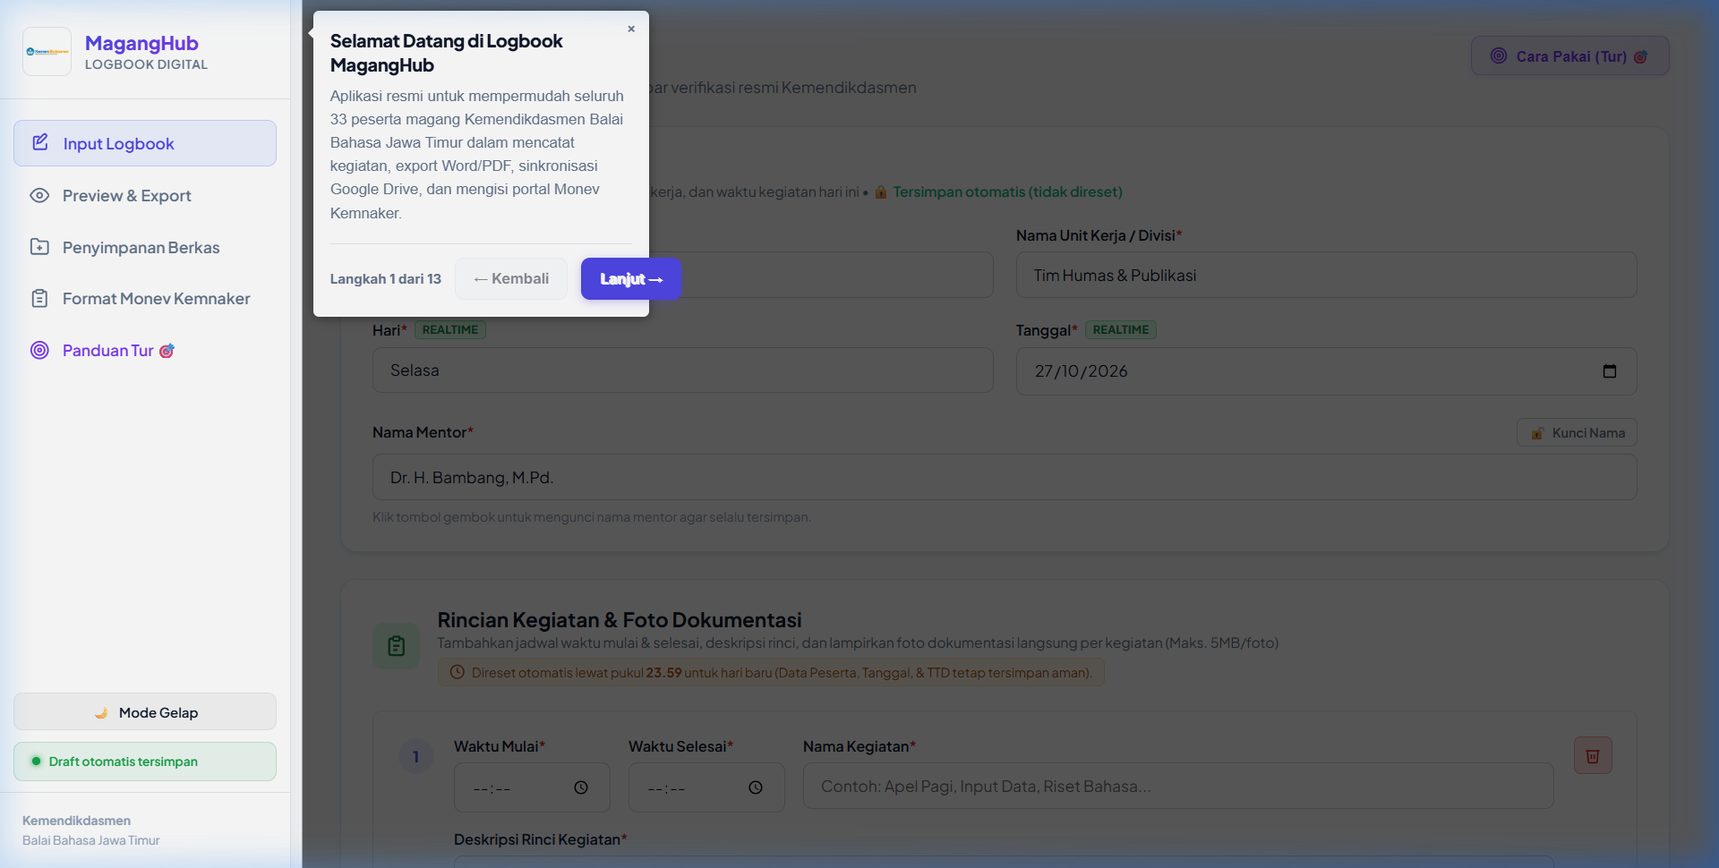
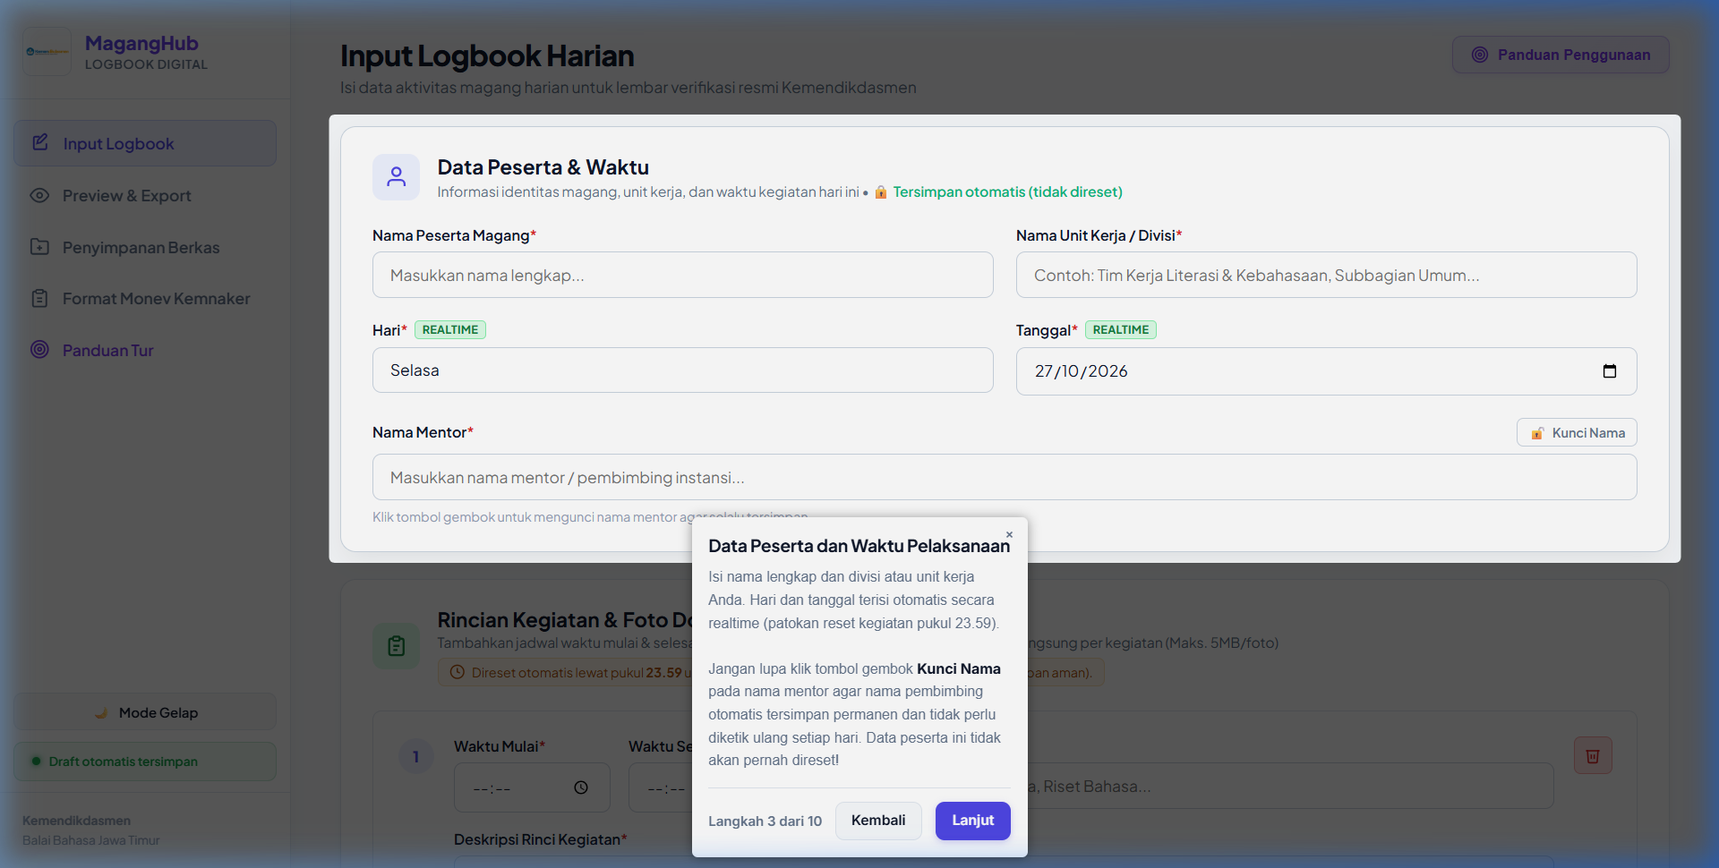
feat(tour): perbarui flow 10 langkah tur interaktif Driver.js dengan transisi tab otomatis dan dokumentasi lengkap

diff --git a/app.js b/app.js
@@ -3278,15 +3278,30 @@ function initAppTour() {
     prevBtnText: 'Kembali',
     progressText: 'Langkah {{current}} dari {{total}}',
     onDestroyStarted: () => {
+      closeMonevModal();
+      switchTab('form');
       localStorage.setItem('maganghub_tour_completed', 'true');
       if (appTourDriver) appTourDriver.destroy();
+    },
+    onHighlightStarted: (element, step, { config, state }) => {
+      const activeIdx = state?.activeIndex ?? (appTourDriver ? appTourDriver.getActiveIndex() : 0);
+      if (activeIdx === 6) {
+        closeMonevModal();
+        switchTab('preview');
+      } else if (activeIdx === 7) {
+        closeMonevModal();
+        switchTab('storage');
+      } else {
+        closeMonevModal();
+        switchTab('form');
+      }
     },
     steps: [
       {
         element: '#sidebar',
         popover: {
           title: 'Selamat Datang di Logbook MagangHub',
-          description: 'Aplikasi resmi untuk mempermudah seluruh 33 peserta magang Kemendikdasmen Balai Bahasa Jawa Timur dalam mencatat kegiatan, export Word/PDF, sinkronisasi Google Drive, dan mengisi portal Monev Kemnaker.',
+          description: 'Aplikasi resmi untuk 33 peserta magang Kemendikdasmen Balai Bahasa Jawa Timur dalam mencatat kegiatan harian, export Word/PDF, sinkronisasi Google Drive koordinator, dan menyusun laporan portal Monev Kemnaker.',
           side: 'right',
           align: 'start'
         }
@@ -3295,52 +3310,25 @@ function initAppTour() {
         element: '#nav-form',
         popover: {
           title: 'Tab 1: Input Logbook Harian',
-          description: 'Halaman utama untuk mengisi aktivitas kerja harian. Semua data yang diketik tersimpan otomatis ke browser (Auto-save).',
+          description: 'Halaman utama untuk mengisi agenda kerja harian Anda. Seluruh isian otomatis disimpan ke memori browser (Auto-save) sehingga data Anda tidak akan hilang.',
           side: 'right',
           align: 'center'
         }
       },
       {
-        element: '#nama',
+        element: '#card-peserta-waktu',
         popover: {
-          title: 'Data Peserta dan Unit Kerja',
-          description: 'Ketik nama lengkap dan divisi atau unit kerja Anda. Data peserta ini tersimpan permanen dan tidak akan direset setiap hari.',
+          title: 'Data Peserta dan Waktu Pelaksanaan',
+          description: 'Isi nama lengkap dan divisi atau unit kerja Anda. Hari dan tanggal terisi otomatis secara realtime (patokan reset kegiatan pukul 23.59).<br/><br/>Jangan lupa klik tombol gembok <strong>Kunci Nama</strong> pada nama mentor agar nama pembimbing otomatis tersimpan permanen dan tidak perlu diketik ulang setiap hari. Data peserta ini tidak akan pernah direset!',
           side: 'bottom',
-          align: 'start'
-        }
-      },
-      {
-        element: '#btn-lock-mentor',
-        popover: {
-          title: 'Fitur Kunci Nama Mentor',
-          description: 'Ketik nama mentor pembimbing, lalu klik tombol gembok ini. Setelah terkunci, nama mentor Anda otomatis tersimpan setiap hari tanpa perlu mengetik ulang.',
-          side: 'left',
           align: 'center'
-        }
-      },
-      {
-        element: '#tanggal',
-        popover: {
-          title: 'Hari dan Tanggal Otomatis',
-          description: 'Sistem secara realtime mengisi hari dan tanggal hari ini. Tanggal ini juga menjadi patokan reset kegiatan harian otomatis setiap pergantian hari lewat pukul 23.59.',
-          side: 'bottom',
-          align: 'start'
         }
       },
       {
         element: '#kegiatan-list',
         popover: {
           title: 'Rincian Kegiatan dan Foto Dokumentasi',
-          description: 'Isi jam mulai dan selesai, judul kegiatan, deskripsi rincian tugas, serta upload foto dokumentasi per kegiatan (maksimal 5MB). Bagian ini yang otomatis dikosongkan setiap lewat pukul 23.59 untuk hari baru.',
-          side: 'top',
-          align: 'center'
-        }
-      },
-      {
-        element: '#btn-add',
-        popover: {
-          title: 'Tambah Kegiatan Baru',
-          description: 'Klik tombol ini jika memiliki lebih dari satu kegiatan dalam sehari untuk menambah baris kegiatan baru sebanyak yang dibutuhkan.',
+          description: 'Isi jam mulai dan selesai (format WIB), nama kegiatan, uraian tugas, serta lampirkan foto dokumentasi per kegiatan (maksimal 5MB). Jika ada lebih dari satu agenda, klik tombol <em>+ Tambah Kegiatan Baru</em> di bawah.<br/><br/><strong>Catatan Penting:</strong> Hanya rincian kegiatan inilah yang otomatis dikosongkan setiap lewat pukul 23.59 malam agar siap untuk hari baru.',
           side: 'top',
           align: 'center'
         }
@@ -3349,7 +3337,7 @@ function initAppTour() {
         element: '#catatan',
         popover: {
           title: 'Catatan atau Kendala Tambahan',
-          description: 'Tuliskan catatan khusus atau kendala kerja jika ada. Jika tidak ada kendala, dapat dibiarkan kosong karena sistem otomatis menyiapkan evaluasi positif untuk laporan Monev.',
+          description: 'Tuliskan catatan khusus atau kendala kerja jika ada. <strong>Jika selama magang hari ini tidak ada kendala, cukup kosongkan saja kolom ini</strong>. Sistem AI nantinya otomatis membuat evaluasi positif untuk laporan Monev Kemnaker bahwa seluruh agenda kegiatan berjalan lancar.',
           side: 'top',
           align: 'start'
         }
@@ -3358,45 +3346,73 @@ function initAppTour() {
         element: '.signature-container',
         popover: {
           title: 'Tanda Tangan Digital',
-          description: 'Goreskan tanda tangan langsung di canvas atau gunakan tombol upload foto tanda tangan. Tanda tangan peserta dan mentor tetap tersimpan aman saat pergantian hari.',
+          description: 'Goreskan tanda tangan langsung pada canvas atau gunakan tombol <em>Upload Foto TTD</em>. Tanda tangan peserta dan mentor tetap tersimpan aman dan tidak akan hilang saat pergantian hari.',
           side: 'top',
-          align: 'center'
+          align: 'center',
+          onNextClick: () => {
+            switchTab('preview');
+            setTimeout(() => { if (appTourDriver) appTourDriver.moveNext(); }, 60);
+          }
         }
       },
       {
-        element: '#nav-preview',
+        element: '.export-toolbar',
         popover: {
           title: 'Tab 2: Preview dan Export Dokumen',
-          description: 'Lihat lembar logbook resmi dengan Kop Surat Kemendikdasmen. Anda dapat mengunduh dokumen dalam format Word (.docx) atau PDF (.pdf).',
-          side: 'right',
-          align: 'center'
+          description: 'Pada menu ini, Anda dapat memeriksa pratinjau lembar logbook resmi berkop surat Balai Bahasa Jawa Timur.<br/><br/>Tersedia tombol <strong>Export ke PDF</strong> untuk bukti laporan/cetak, serta tombol <strong>Export ke Word (.docx)</strong> jika dokumen ingin disunting lebih lanjut di komputer Anda.',
+          side: 'bottom',
+          align: 'center',
+          onPrevClick: () => {
+            switchTab('form');
+            setTimeout(() => { if (appTourDriver) appTourDriver.movePrevious(); }, 60);
+          },
+          onNextClick: () => {
+            switchTab('storage');
+            setTimeout(() => { if (appTourDriver) appTourDriver.moveNext(); }, 60);
+          }
         }
       },
       {
-        element: '#nav-storage',
+        element: '.storage-action-bar',
         popover: {
-          title: 'Tab 3: Penyimpanan Berkas dan Folder',
-          description: 'Akses folder 33 peserta magang di Google Drive koordinator. Klik tombol bintang pada folder Anda agar selalu berada di urutan paling atas.',
-          side: 'right',
-          align: 'center'
+          title: 'Tab 3: Penyimpanan Berkas dan Google Drive',
+          description: 'Pusat penyimpanan berkas seluruh 33 peserta magang di Google Drive koordinator (Marcello):<br/><br/>1. <strong>Teman-teman baru yang belum punya folder:</strong> Klik tombol <em>Buat Folder Baru</em> dan masukkan nama lengkap Anda (folder langsung dibuatkan di Google Drive koordinator).<br/>2. <strong>Jika sudah ada folder:</strong> Cari folder nama Anda sendiri, lalu klik <em>ikon bintang (⭐)</em> agar selalu terpin di paling atas.<br/>3. <strong>Menyimpan Logbook:</strong> Klik folder nama Anda untuk membukanya (tenang, data logbook dari form tidak akan hilang), lalu klik tombol <strong>Simpan & Dapatkan Link</strong>. File logbook otomatis ter-generate dan tersimpan di Google Drive bersama milik Marcello.<br/>4. <strong>Revisi jika ada kekeliruan:</strong> Berkas di Drive tidak bisa diedit langsung. Jika salah isi, <strong>hapus berkas lama terlebih dahulu</strong> di penyimpanan, kembali ke menu <em>Input Logbook</em> untuk memperbaiki datanya, lalu masuk ke folder ini dan klik <em>Simpan & Dapatkan Link</em> lagi. Salin tautan barunya untuk dikirim ke portal Kemnaker!',
+          side: 'bottom',
+          align: 'center',
+          onPrevClick: () => {
+            switchTab('preview');
+            setTimeout(() => { if (appTourDriver) appTourDriver.movePrevious(); }, 60);
+          },
+          onNextClick: () => {
+            switchTab('form');
+            setTimeout(() => { if (appTourDriver) appTourDriver.moveNext(); }, 60);
+          }
         }
       },
       {
         element: '#nav-monev',
         popover: {
-          title: 'Format Laporan Monev Kemnaker',
-          description: 'Fitur praktis untuk menyusun 3 klip siap salin ke portal Monev Kemnaker: Uraian Kronologis beserta link Drive, Refleksi Pembelajaran, dan Evaluasi Kendala harian.',
+          title: 'Format Laporan Monev Kemnaker (3 Klip Siap Salin)',
+          description: 'Fitur praktis untuk mengisi portal <strong>monev.maganghub.kemnaker.go.id</strong> tanpa perlu mengetik ulang dari awal:<br/><br/>1. <strong>Uraian Aktifitas:</strong> Mengambil langsung dari agenda rincian kegiatan dan jam yang diisi di formulir sebelumnya, serta otomatis menyertakan link Google Drive resmi Anda jika sudah disimpan di penyimpanan.<br/>2. <strong>Pembelajaran yang Didapat:</strong> Dibuat dan dirangkum secara cerdas dan otomatis oleh <strong>AI Gemini</strong> menjadi poin-poin kompetensi profesional.<br/>3. <strong>Kendala yang Dialami:</strong> Mengambil dari catatan formulir. Jika tadi dikosongkan, AI otomatis menyusun evaluasi positif bahwa seluruh agenda berjalan lancar.<br/><br/>Tinggal klik <em>Salin</em> per klip atau <em>Salin Semua Format (3-in-1)</em>, lalu tempelkan langsung ke portal Kemnaker!',
           side: 'right',
-          align: 'center'
+          align: 'center',
+          onPrevClick: () => {
+            switchTab('storage');
+            setTimeout(() => { if (appTourDriver) appTourDriver.movePrevious(); }, 60);
+          }
         }
       },
       {
         element: '#theme-toggle-btn',
         popover: {
-          title: 'Mode Terang dan Gelap',
-          description: 'Klik tombol ini untuk beralih antara Mode Terang dan Mode Gelap sesuai kenyamanan visual Anda.',
+          title: 'Mode Tampilan dan Selesai',
+          description: 'Gunakan tombol ini untuk beralih antara Mode Terang dan Mode Gelap agar nyaman di mata saat bekerja lembur atau malam hari. Panduan tur selesai, selamat mengisi logbook harian Anda!',
           side: 'top',
-          align: 'start'
+          align: 'start',
+          onPrevClick: () => {
+            switchTab('form');
+            setTimeout(() => { if (appTourDriver) appTourDriver.movePrevious(); }, 60);
+          }
         }
       }
     ]

diff --git a/style.css b/style.css
@@ -3226,18 +3226,19 @@ a {
   background-color: var(--bg-card) !important;
   color: var(--text) !important;
   border-radius: 14px !important;
-  box-shadow: 0 20px 40px -10px rgba(0, 0, 0, 0.25), 0 0 0 1px var(--border) !important;
+  box-shadow: 0 20px 45px -10px rgba(0, 0, 0, 0.3), 0 0 0 1px var(--border) !important;
   padding: 18px 20px !important;
-  width: 380px !important;
+  width: 410px !important;
   max-width: calc(100vw - 32px) !important;
   min-width: 320px !important;
+  max-height: 88vh !important;
   box-sizing: border-box !important;
   font-family: 'Inter', -apple-system, BlinkMacSystemFont, sans-serif !important;
 }
 
 .driver-popover-title {
   font-family: 'Plus Jakarta Sans', 'Inter', sans-serif !important;
-  font-size: 15px !important;
+  font-size: 15.5px !important;
   font-weight: 700 !important;
   color: var(--text) !important;
   margin-bottom: 8px !important;
@@ -3246,14 +3247,21 @@ a {
 }
 
 .driver-popover-description {
-  font-size: 13px !important;
-  line-height: 1.55 !important;
+  font-size: 12.8px !important;
+  line-height: 1.6 !important;
   color: var(--text-muted) !important;
   margin-bottom: 14px !important;
 }
 
 .driver-popover-description strong {
   color: var(--text) !important;
+  font-weight: 700 !important;
+}
+
+.driver-popover-description em {
+  color: var(--primary) !important;
+  font-style: normal !important;
+  font-weight: 600 !important;
 }
 
 .driver-popover-footer {

diff --git a/index.html b/index.html
@@ -107,7 +107,7 @@
       </div>
 
       <!-- Data Peserta & Waktu -->
-      <div class="card">
+      <div class="card" id="card-peserta-waktu">
         <div class="card-header">
           <div class="card-icon"><svg viewBox="0 0 24 24" fill="none" stroke="currentColor" stroke-width="2"><path d="M20 21v-2a4 4 0 00-4-4H8a4 4 0 00-4 4v2"/><circle cx="12" cy="7" r="4"/></svg></div>
           <div>

diff --git a/PANDUAN_PENGGUNA.md b/PANDUAN_PENGGUNA.md
@@ -8,6 +8,8 @@
 ## 📑 DAFTAR ISI
 1. [Sekilas Tentang Aplikasi](#1-sekilas-tentang-aplikasi)
 2. [Fitur Panduan Interaktif (Tur Driver.js)](#2-fitur-panduan-interaktif-tur-driverjs)
+   - [A. Cara Mengaktifkan Tur](#a-cara-mengaktifkan-tur)
+   - [B. Rincian Alur 10 Langkah Tur Panduan](#b-rincian-alur-10-langkah-tur-panduan)
 3. [Langkah 1: Mengisi Formulir Logbook Harian (Tab 1)](#3-langkah-1-mengisi-formulir-logbook-harian-tab-1)
    - [A. Mengisi Data Peserta & Waktu](#a-mengisi-data-peserta--waktu)
    - [B. Fitur Kunci Nama Mentor (🔒)](#b-fitur-kunci-nama-mentor-)
@@ -19,10 +21,11 @@
    - [A. Memilih / Membuat Folder Nama Anda](#a-memilih--membuat-folder-nama-anda)
    - [B. Fitur Bintang (⭐) Agar Folder Selalu Terpin di Paling Atas](#b-fitur-bintang--agar-folder-selalu-terpin-di-paling-atas)
    - [C. Menyimpan Logbook & Mendapatkan Tautan Google Drive](#c-menyimpan-logbook--mendapatkan-tautan-google-drive)
+   - [D. Prosedur Revisi Dokumen jika Terjadi Kekeliruan](#d-prosedur-revisi-dokumen-jika-terjadi-kekeliruan)
 6. [Langkah 4: Format Laporan Monev Kemnaker (3 Klip Siap Salin)](#6-langkah-4-format-laporan-monev-kemnaker-3-klip-siap-salin)
    - [A. Clip 1: Uraian Aktifitas Kronologis + Link GDrive](#a-clip-1-uraian-aktifitas-kronologis--link-gdrive)
-   - [B. Clip 2: Pembelajaran yang Didapat (Refleksi & Kompetensi)](#b-clip-2-pembelajaran-yang-didapat-refleksi--kompetensi)
-   - [C. Clip 3: Kendala yang Dialami (Evaluasi Positif Otomatis)](#c-clip-3-kendala-yang-dialami-evaluasi-positif-otomatis)
+   - [B. Clip 2: Pembelajaran yang Didapat (Refleksi & Kompetensi AI Gemini)](#b-clip-2-pembelajaran-yang-didapat-refleksi--kompetensi-ai-gemini)
+   - [C. Clip 3: Kendala yang Dialami (Evaluasi Positif Otomatis jika Kosong)](#c-clip-3-kendala-yang-dialami-evaluasi-positif-otomatis-jika-kosong)
    - [D. Cara Menempel ke Website Monev Kemnaker](#d-cara-menempel-ke-website-monev-kemnaker)
 7. [Tanya Jawab & Tips Penting (FAQ)](#7-tanya-jawab--tips-penting-faq)
 
@@ -42,11 +45,25 @@ Jika Anda baru pertama kali membuka website ini atau lupa letak menu tertentu, g
 
 ![Panduan Interaktif Tur](assets/screenshots/2_panduan_tur.png)
 
-### Cara Mengaktifkan Tur:
+### A. Cara Mengaktifkan Tur:
 1. Klik tombol **"Panduan Penggunaan"** di pojok kanan atas formulir input, ATAU
 2. Klik menu **"Panduan Tur"** pada panel navigasi (sidebar kiri).
-3. Layar akan memandu Anda langkah demi langkah dengan menyorot elemen penting formulir secara interaktif.
-4. Klik tombol **Lanjut** untuk berpindah ke langkah berikutnya, atau klik **Selesai** untuk keluar dari tur.
+3. Tur otomatis berjalan dan memandu Anda langkah demi langkah dengan menyorot elemen penting formulir dan berpindah tab secara otomatis.
+4. Klik tombol **Lanjut** untuk berpindah ke langkah berikutnya, **Kembali** untuk mundur satu langkah, atau **Selesai** untuk menutup panduan.
+
+### B. Rincian Alur 10 Langkah Tur Panduan:
+| No. Langkah | Target Sorotan | Penjelasan & Tindakan |
+| :---: | :--- | :--- |
+| **1** | **Panel Sidebar Kiri** (`#sidebar`) | Pengenalan singkat aplikasi resmi Logbook MagangHub untuk 33 peserta magang Balai Bahasa Jawa Timur. |
+| **2** | **Menu Tab 1: Input Logbook** (`#nav-form`) | Halaman utama pengisian agenda. Seluruh isian otomatis disimpan ke memori browser (*Auto-save*). |
+| **3** | **Data Peserta & Waktu Pelaksanaan** (`#card-peserta-waktu`) | Pengisian Nama Peserta, Unit Divisi, Hari & Tanggal (realtime). Penggunaan fitur kunci gembok nama mentor agar tersimpan permanen. Data di card ini tidak pernah direset. |
+| **4** | **Rincian Kegiatan & Dokumentasi** (`#kegiatan-list`) | Pengisian jam mulai-selesai (WIB), deskripsi kegiatan, tombol tambah kegiatan baru, serta upload foto dokumentasi (maks 5MB). Bagian ini yang otomatis dikosongkan lewat pukul 23.59 malam. |
+| **5** | **Catatan atau Kendala Tambahan** (`#catatan`) | Catatan evaluasi kerja. **Jika tidak ada kendala, cukup dikosongkan saja**; AI Gemini akan otomatis menyusun narasi evaluasi positif untuk portal Monev Kemnaker. |
+| **6** | **Tanda Tangan Digital** (`.signature-container`) | Coretan tanda tangan langsung pada canvas atau upload foto TTD. Tanda tangan peserta dan mentor tetap tersimpan permanen dan tidak akan hilang. |
+| **7** | **Tab 2: Pratinjau & Export Dokumen** (`.export-toolbar`) | Layar otomatis berpindah ke Tab Preview. Menjelaskan pengecekan berkas berkop surat resmi serta pilihan tombol **Export ke Word (.docx)** dan **Export ke PDF (.pdf)**. |
+| **8** | **Tab 3: Penyimpanan Berkas & Drive** (`.storage-action-bar`) | Layar otomatis berpindah ke Tab Storage. Menjelaskan pembuatan folder baru untuk peserta baru, pin bintang (⭐), penyimpanan ke Google Drive bersama milik Marcello, serta **aturan revisi dokumen**. |
+| **9** | **Format Laporan Monev Kemnaker** (`#nav-monev`) | Menjelaskan 3 Klip Siap Salin: Uraian dari form + link Drive, Pembelajaran otomatis dari AI Gemini, serta Kendala yang otomatis positif jika dikosongkan. |
+| **10** | **Tombol Mode Tampilan** (`#theme-toggle-btn`) | Opsi beralih antara Mode Terang dan Mode Gelap (*Dark Mode*) untuk kenyamanan mata saat bekerja. |
 
 ---
 
@@ -139,11 +156,25 @@ Agar Anda tidak perlu mencari-cari nama folder Anda di antara 33 peserta setiap 
 
 ### C. Menyimpan Logbook & Mendapatkan Tautan Google Drive
 1. Klik folder nama Anda untuk membukanya.
+   > 💡 **DATA TIDAK AKAN HILANG:** Seluruh data yang sudah Anda isi pada Tab 1 (Input Logbook) **tetap aman tersimpan** dan tidak akan terhapus saat Anda membuka menu penyimpanan ataupun membuka folder nama Anda!
 2. Di bagian atas terdapat panel hijau **Simpan Logbook Hari Ini ke Folder Ini**.
 3. Pilih format berkas yang diinginkan: **Word (.docx)** atau **PDF (.pdf)**.
 4. Klik tombol **"Simpan & Dapatkan Link Google Drive"**.
-5. Sistem akan mengunggah berkas. Setelah selesai, muncul banner sukses lengkap dengan **Link Google Drive resmi**.
-6. Klik tombol **"Salin Link"** untuk menggunakannya sebagai lampiran bukti digital.
+5. Berkas otomatis ter-generate dan tersimpan langsung ke **Google Drive bersama milik koordinator (Marcello)**.
+6. Setelah pengunggahan berhasil, muncul banner sukses lengkap dengan **Link Google Drive resmi**.
+7. Klik tombol **"Salin Link"** untuk menggunakannya sebagai lampiran resmi.
+
+---
+
+### D. Prosedur Revisi Dokumen jika Terjadi Kekeliruan
+> ⚠ **ATURAN PENTING REVISI FILE GOOGLE DRIVE:**  
+> File yang sudah tersimpan di Google Drive koordinator **tidak dapat diedit secara langsung** dari dalam Drive.  
+> Jika terdapat salah ketik pada kegiatan, deskripsi, atau foto dokumentasi yang keliru, ikuti alur revisi berikut:
+>
+> 1. **Hapus File Lama:** Buka folder nama Anda di Tab **Penyimpanan Berkas**, temukan file logbook yang keliru, lalu klik tombol **Hapus** (ikon tempat sampah).
+> 2. **Perbaiki Isian Data:** Klik menu **Input Logbook** (Tab 1) di sidebar. Koreksi kegiatan atau data yang keliru (seluruh isian Anda sebelumnya masih tetap ada).
+> 3. **Simpan Ulang:** Masuk kembali ke Tab **Penyimpanan Berkas**, buka folder nama Anda, lalu klik tombol **"Simpan & Dapatkan Link Google Drive"** sekali lagi.
+> 4. **Salin Tautan Baru:** Sistem akan membuat berkas baru dan menghasilkan link Google Drive baru. Klik **Salin Link**, lalu tempelkan link baru tersebut ke portal Kemnaker. Selesai!
 
 ---
 
@@ -156,24 +187,24 @@ Untuk mengisi laporan harian pada portal [https://monev.maganghub.kemnaker.go.id
 Jendela popup akan menampilkan **3 Klip Siap Salin**:
 
 ### A. Clip 1: Uraian Aktifitas Kronologis + Link GDrive
-- **Isi:** Urutan kegiatan harian berpenomoran rapi yang otomatis disusun dari jam pelaksanaan, nama kegiatan, dan deskripsi tugas Anda.
-- **Tautan Berkas:** Jika logbook sudah tersimpan ke Drive, tautan berkas Google Drive otomatis ditambahkan di bagian bawah uraian sebagai bukti lampiran.
+- **Isi:** Mengambil langsung dari input formulir logbook sebelumnya. Tersusun secara kronologis berpenomoran rapi lengkap dengan jam pelaksanaan (WIB), judul kegiatan, dan rincian uraian tugas Anda.
+- **Tautan Berkas:** Jika logbook sudah tersimpan ke penyimpanan Google Drive koordinator Marcello, tautan (*link*) berkas Google Drive otomatis disematkan di baris paling bawah sebagai lampiran bukti digital resmi.
 - Klik tombol **"Salin Uraian"**.
 
 ---
 
-### B. Clip 2: Pembelajaran yang Didapat (Refleksi & Kompetensi)
-- **Isi:** Disusun otomatis dan cerdas berdasarkan rincian tugas dan agenda kerja yang Anda lakukan hari ini.
-- Menghasilkan 2–3 poin refleksi terstruktur dengan judul kategori kompetensi (contoh: *Manajemen Acara & Literasi Daerah:*, *Pengembangan Tools Produktivitas:*, *Kolaborasi Lintas Peran:*), dan setiap poin dipisahkan oleh satu baris kosong yang rapi.
+### B. Clip 2: Pembelajaran yang Didapat (Refleksi & Kompetensi AI Gemini)
+- **Isi:** Di-generate secara otomatis dan cerdas oleh **AI Gemini** berdasarkan tugas nyata yang telah Anda inputkan di formulir logbook harian.
+- Menghasilkan 2–3 poin refleksi terstruktur dengan judul kategori kompetensi profesional (contoh: *Manajemen Acara & Literasi Daerah:*, *Pengembangan Tools Produktivitas:*, *Kolaborasi Lintas Peran:*), dan setiap poin dipisahkan oleh satu baris kosong (line break) yang rapi.
 - Tanpa tulisan pembuka atau tanda format yang mengganggu, sehingga 100% siap tempel.
 - Tersedia tombol **"Perbarui Refleksi"** jika Anda ingin variasi susunan narasi lain.
 - Klik tombol **"Salin Pembelajaran"**.
 
 ---
 
-### C. Clip 3: Kendala yang Dialami (Evaluasi Positif Otomatis)
-- **Isi:** Mengambil dari inputan *Catatan / Kendala Tambahan*.
-- **Otomatis Cerdas jika Kosong:** Jika Anda tidak mengisi kendala (atau hanya diisi tanda strip `-`), sistem otomatis menyusun evaluasi positif, contoh:
+### C. Clip 3: Kendala yang Dialami (Evaluasi Positif Otomatis jika Kosong)
+- **Isi:** Mengambil langsung dari inputan *Catatan / Kendala Tambahan*.
+- **Otomatis Cerdas jika Dikosongkan:** Jika selama kegiatan magang hari ini Anda tidak mengalami hambatan apa pun, **cukup kosongkan saja kolom catatan pada formulir input logbook**. Sistem AI Gemini akan otomatis menyusun narasi evaluasi positif dan profesional, contoh:
   > *"Tidak ada kendala. Seluruh agenda kegiatan mulai dari [kegiatan 1] hingga [kegiatan 2] berjalan dengan sangat lancar dan sesuai target waktu yang direncanakan."*
 - Klik tombol **"Salin Kendala"**.
 
@@ -204,6 +235,9 @@ Jendela popup akan menampilkan **3 Klip Siap Salin**:
 
 ### Q: Bagaimana jika laptop teman saya belum melihat folder baru yang saya buat di Google Drive?
 **J:** Sistem melakukan sinkronisasi otomatis setiap 30 detik. Anda juga bisa mengklik tombol **"Sinkronkan Berkas"** di pojok kanan atas Tab Penyimpanan Berkas untuk memperbarui daftar folder secara instan.
+
+### Q: Jika ada kesalahan isi logbook yang sudah terlanjur disimpan ke Google Drive, apakah bisa diedit langsung?
+**J:** Tidak bisa diedit langsung di Google Drive. Sesuai prosedur, silakan hapus file yang salah tersebut di folder Anda pada Tab **Penyimpanan Berkas**, lalu kembali ke Tab **Input Logbook** untuk mengoreksi isian data atau fotonya (data Anda di form tidak hilang). Setelah benar, buka kembali folder nama Anda di Tab Penyimpanan Berkas dan klik tombol **"Simpan & Dapatkan Link Google Drive"** untuk menghasilkan berkas dan link baru yang siap disalin ke portal Monev Kemnaker.
 
 ### Q: Bagaimana cara mengganti tema ke Mode Gelap?
 **J:** Klik tombol **"Mode Gelap 🌙"** di bagian bawah panel sidebar navigasi kiri (atau ikon bulan pada perangkat smartphone).
